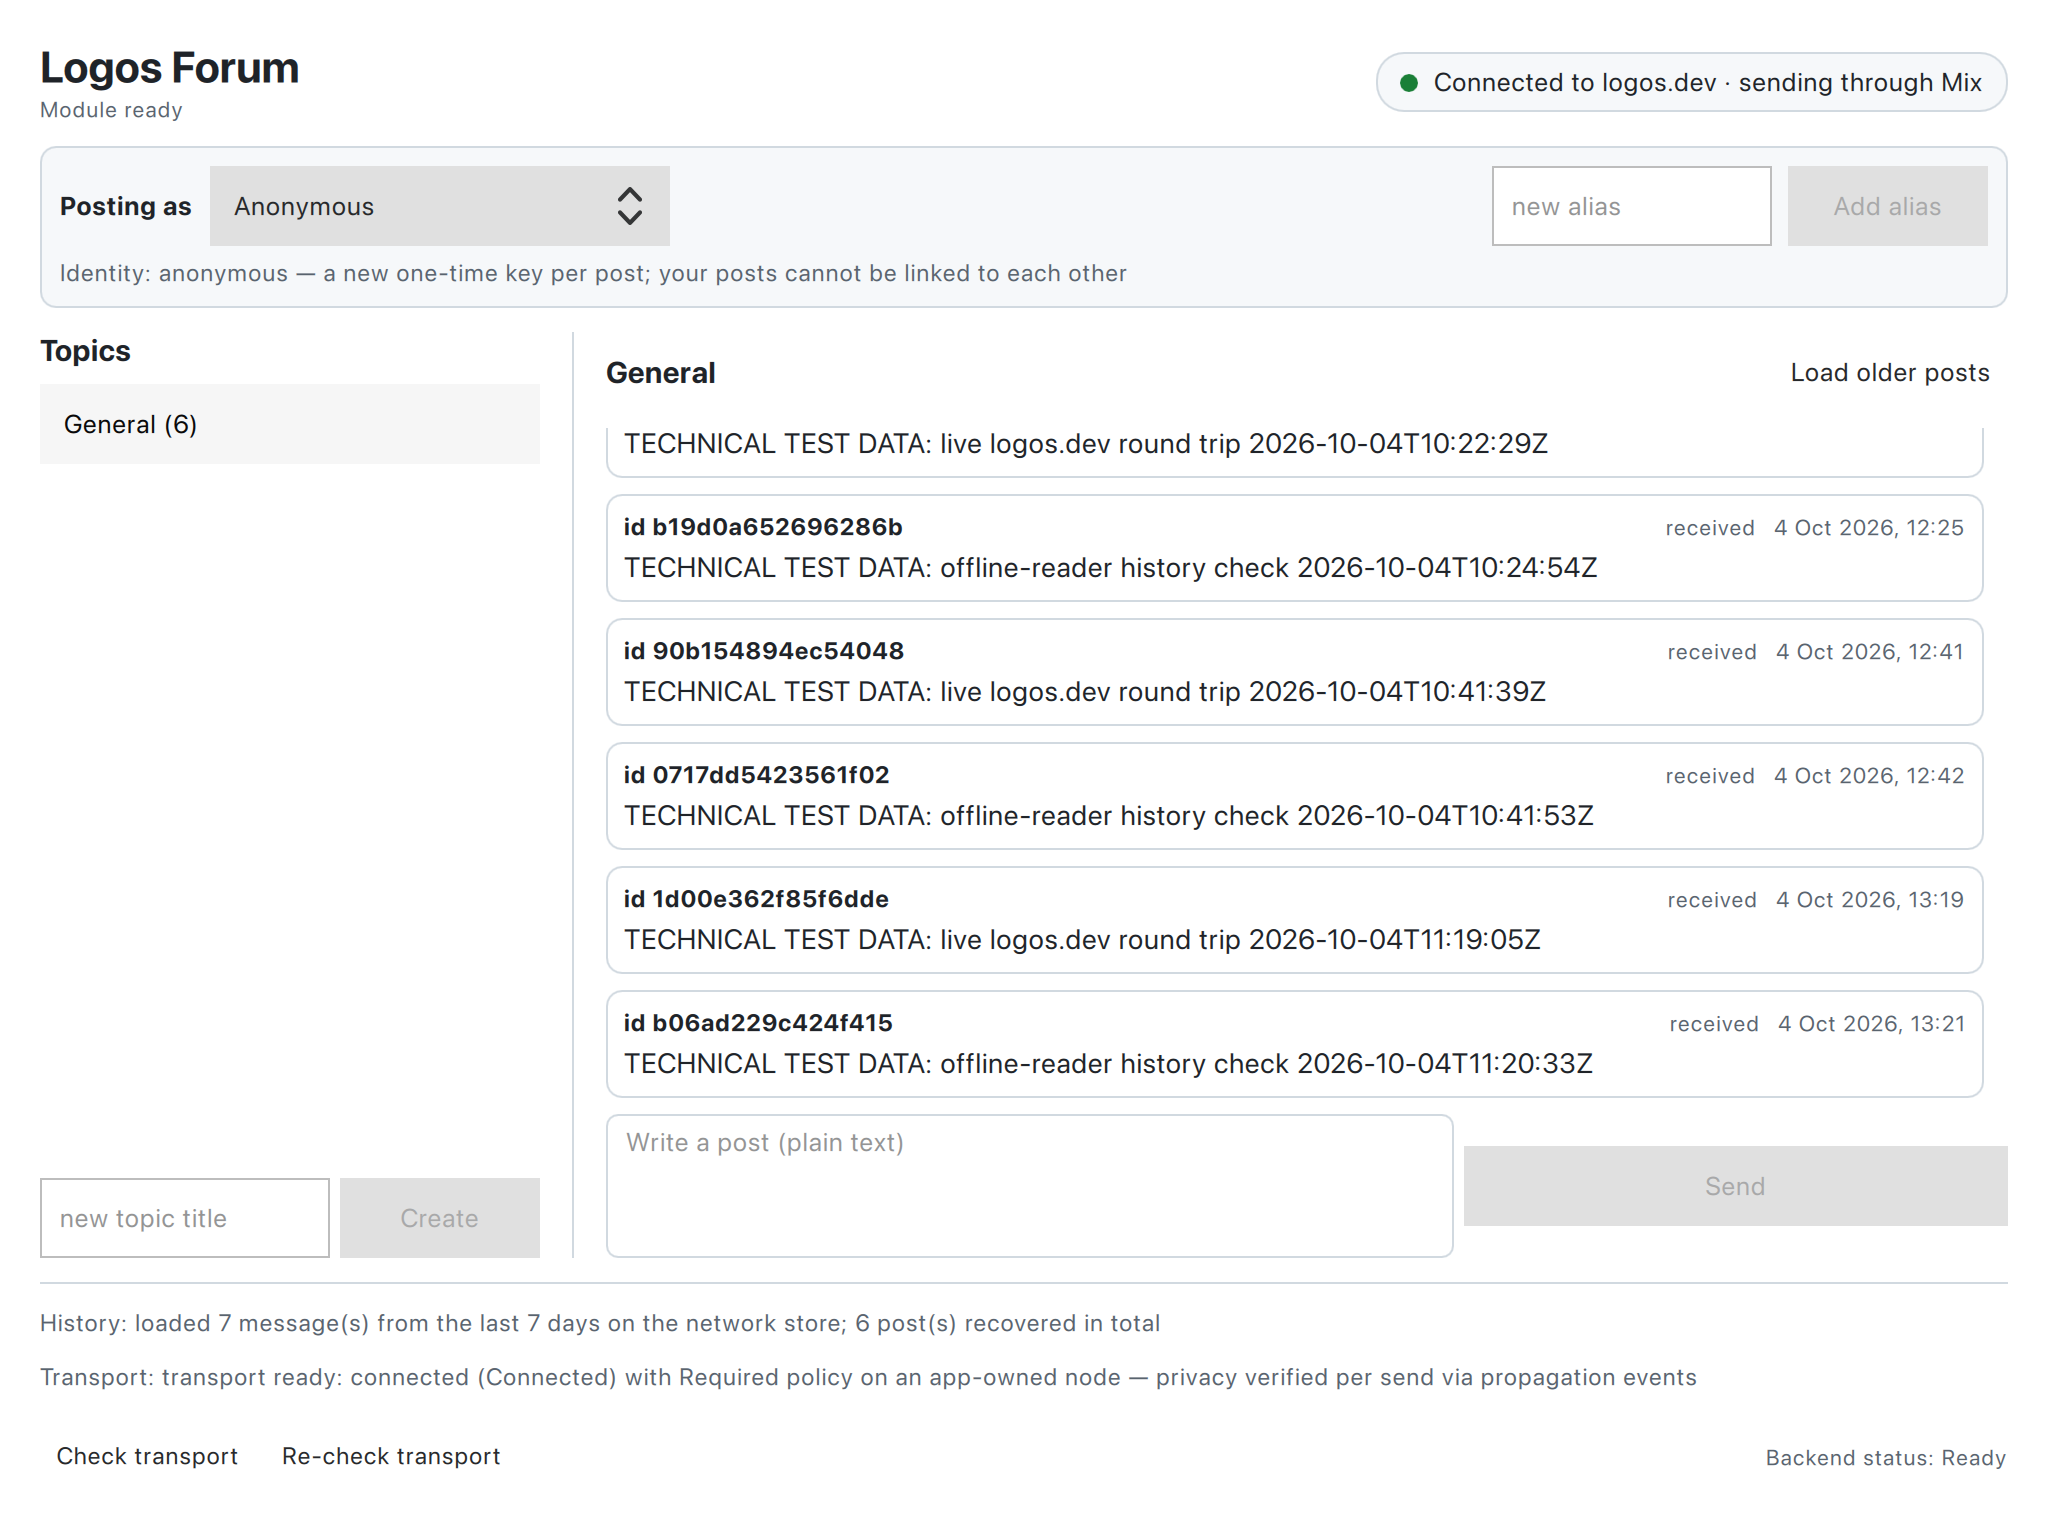
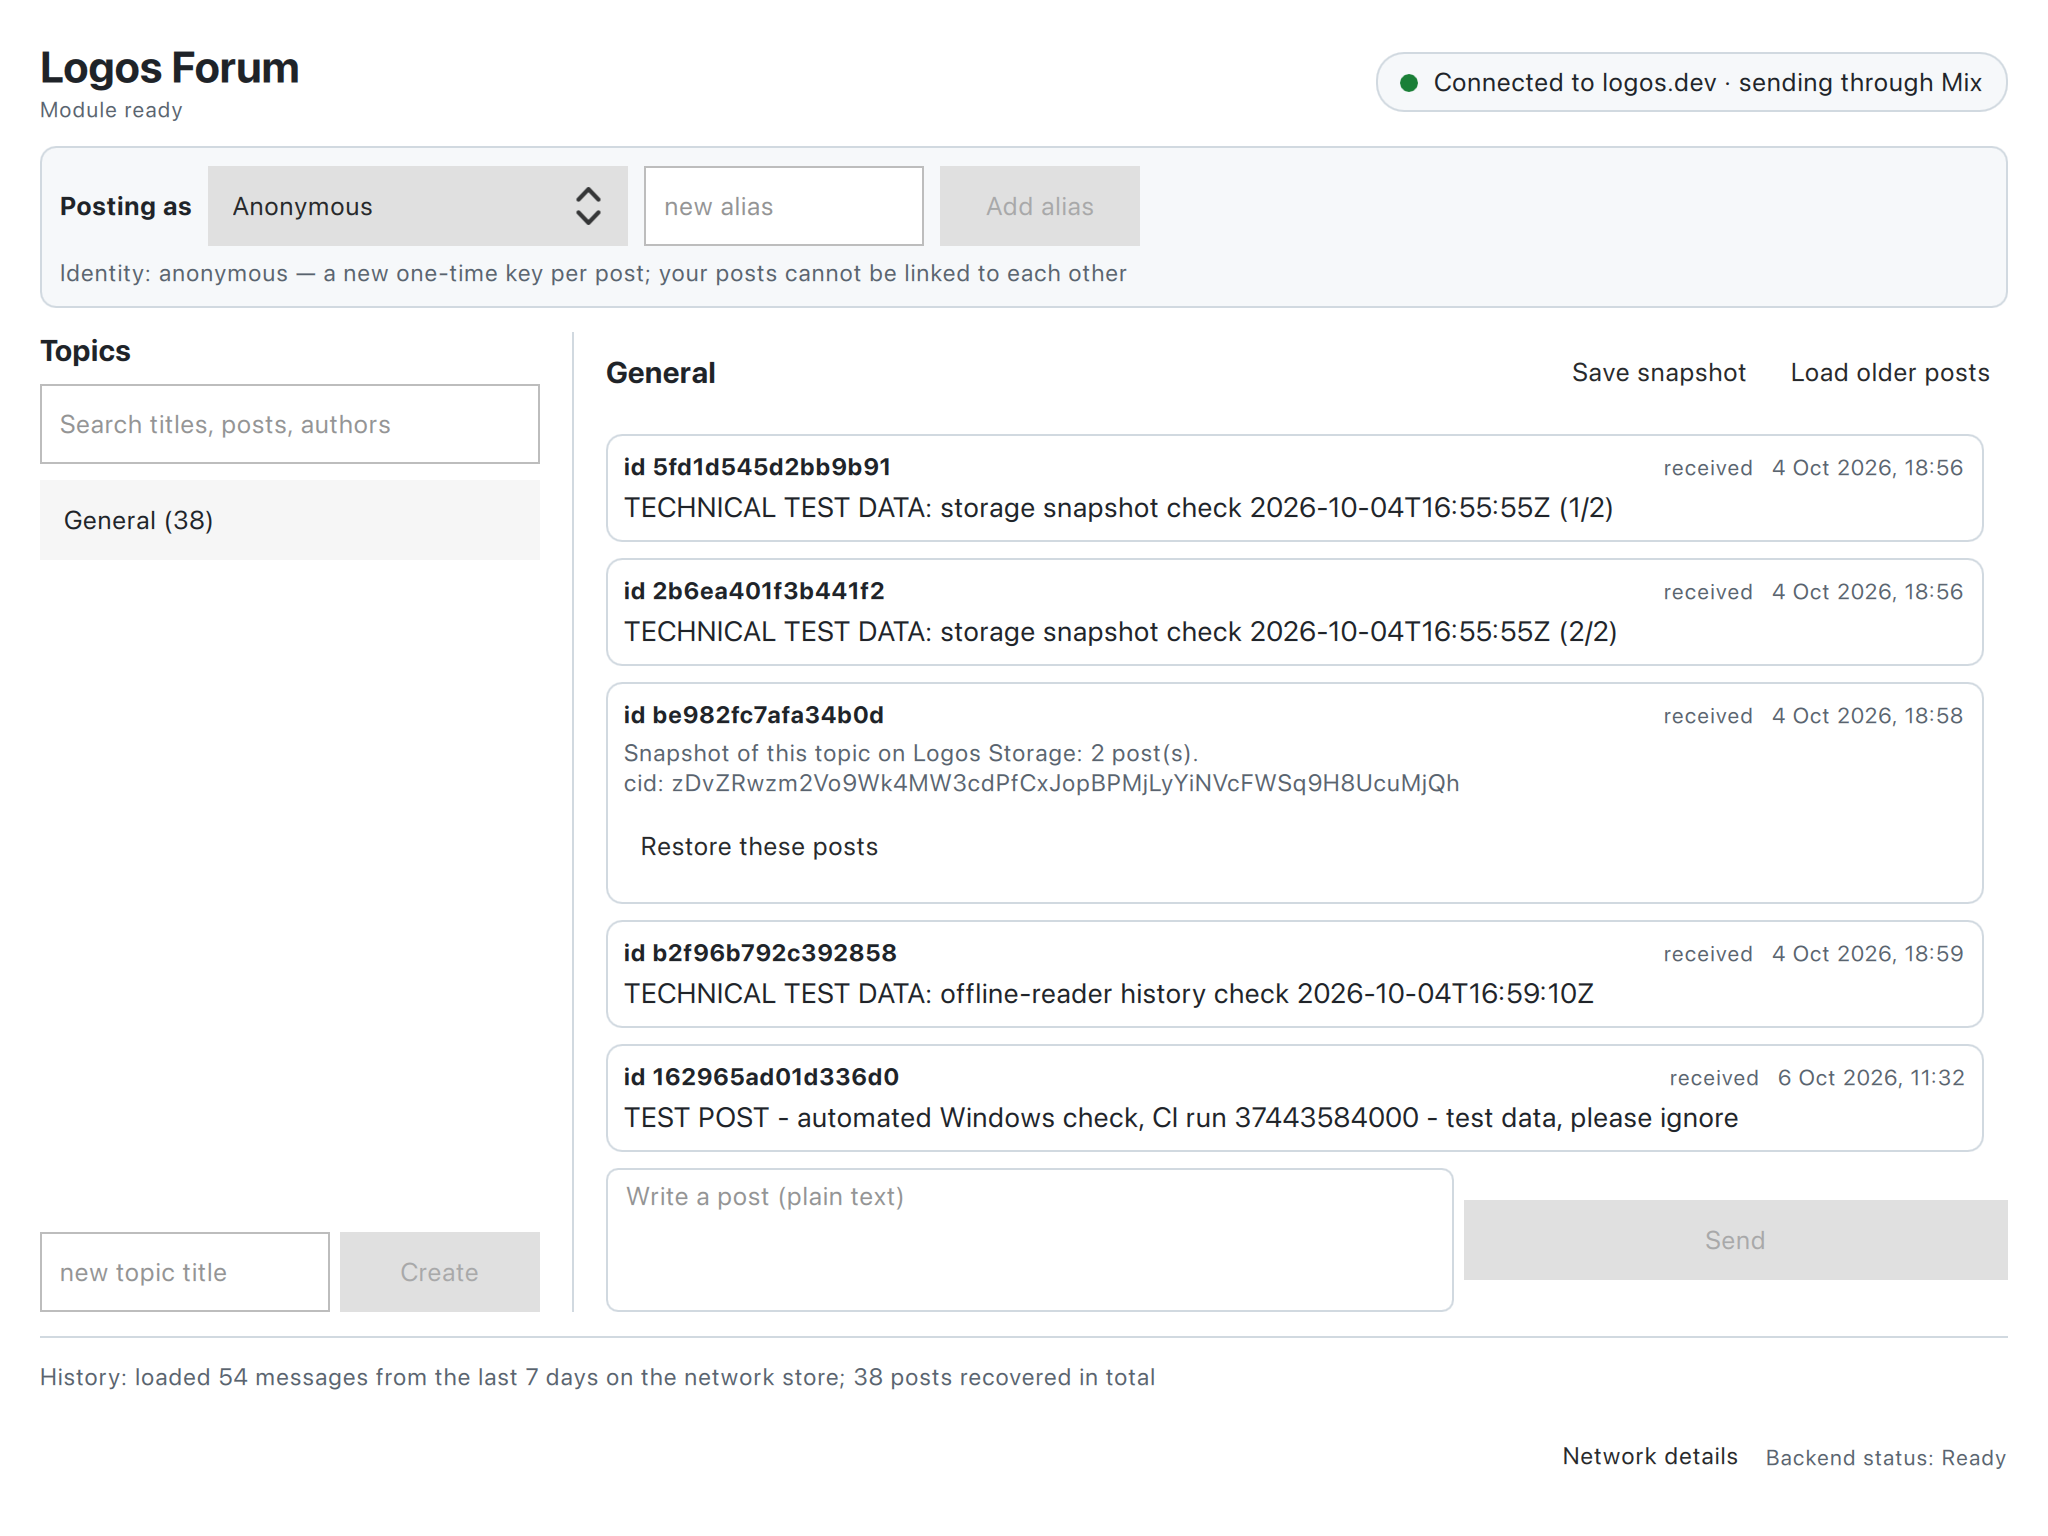
feat: offline posts wait for the connection; Windows check in Basecamp
A post written before connecting is now stored as waiting to send and the composer is cleared, so pressing Send again can no longer post it twice. The Connecting hint is replaced once connected and Retry stored appears only when connected. CI adds a windows-basecamp job that runs the Windows package in the release Basecamp 0.3.1 app on a Windows runner, writes a test post offline and checks it is sent through Mix after Connect. README images refreshed from the current UI.

diff --git a/src/qml/Main.qml b/src/qml/Main.qml
@@ -16,6 +16,11 @@ Item {
     readonly property string status: backend ? backend.status : ""
     readonly property string transportState: backend ? backend.transportState : ""
     readonly property string connection: backend ? backend.connection : "offline"
+    // The "Connecting…" hint from the Connect button must not outlive it.
+    onConnectionChanged: {
+        if (connection === "connected" && outcome.text.startsWith("Connecting"))
+            outcome.text = "Connected — posts go out through Mix."
+    }
     readonly property string historyState: backend ? backend.historyState : ""
     readonly property var accounts: backend ? backend.accounts : []
     readonly property string selectedAlias: backend ? backend.selectedAlias : ""
@@ -631,8 +636,9 @@ Item {
                                 text: "Retry stored"
                                 flat: true
                                 Layout.fillWidth: true
-                                // Offered when something in this thread is waiting.
-                                visible: root.threadPosts.some(function (l) {
+                                // Offered when connected and something in this thread is
+                                // waiting (offline, waiting posts go out on Connect).
+                                visible: root.connection === "connected" && root.threadPosts.some(function (l) {
                                     return l.indexOf(" [failed]: ") >= 0 || l.indexOf(" [pending]: ") >= 0
                                 })
                                 enabled: root.usable

diff --git a/tools/m4_matrix.py b/tools/m4_matrix.py
@@ -136,7 +136,7 @@ def main():
     current_smoke_passes = [d.name for d in smoke_pass if d.name >= "smoke-20261003-2"]
 
     core_logs = []
-    for name in ("m5-package/polish-20261004/core-tests.txt", "m5-package/linkfix/core-tests-age-1.log", "m5-package/linkfix/core-tests-parse-1.log", "m5-package/linkfix/core-tests-tsfix.txt", "m5-package/linkfix/core-tests-final.txt",
+    for name in ("m5-package/polish-20261006/core-tests.txt", "m5-package/polish-20261004/core-tests.txt", "m5-package/linkfix/core-tests-age-1.log", "m5-package/linkfix/core-tests-parse-1.log", "m5-package/linkfix/core-tests-tsfix.txt", "m5-package/linkfix/core-tests-final.txt",
                  "m2-core/core-tests-5.log", "m3-archive/core-tests-archive-3.log"):
         p = EVID / name
         if p.exists():
@@ -146,7 +146,7 @@ def main():
     # Newest store-backed suite receipt (identity-modes suite first, then the
     # first post-fix suite); "N passed, 0 failed" is parsed, never assumed.
     integ_final, integ_n = None, 0
-    for name in ("../polish-20261004/integration-win32fix-9.log", "../polish-20261004/integration-storeopen-7.log", "integration-final-tree-2.log", "integration-final-tree.log", "integration-age-1.log", "integration-features-3.log", "integration-tsfix.log", "integration-redesign.log", "integration-history.log", "integration-connect-2.log",
+    for name in ("../polish-20261006/integration-retry-visible-3.log", "../polish-20261004/integration-win32fix-9.log", "../polish-20261004/integration-storeopen-7.log", "integration-final-tree-2.log", "integration-final-tree.log", "integration-age-1.log", "integration-features-3.log", "integration-tsfix.log", "integration-redesign.log", "integration-history.log", "integration-connect-2.log",
                  "integration-uid.log", "integration-final.log"):
         cand = lf / name
         m = re.search(r"(\d+) passed, 0 failed", cand.read_text(errors="replace")) if cand.exists() else None
@@ -171,7 +171,7 @@ def main():
     gui_receipts = (
         ([{"artifact": "store_probe (dev launcher: slot return + PROP sync + post path)",
            "sha256": store_probe_h}] if store_probe else []) +
-        ([{"artifact": "cleaninstall (real Basecamp: alias + refused post [failed] + text kept)",
+        ([{"artifact": "cleaninstall (real Basecamp: alias + offline post saved as [pending], composer cleared)",
            "sha256": m5ci_h}] if m5ci else []))
 
     # Live public-network receipts (logos.dev, joined through the in-app

diff --git a/src/forum_module_backend.cpp b/src/forum_module_backend.cpp
@@ -483,13 +483,17 @@ QString ForumModuleBackend::submitPost(const QString &bounded, const forum::KeyP
         return QStringLiteral("queued");
     }
     if (!m_transportReady) {
-        st->mark_state(eventId, "failed", "transport not ready (Required policy)");
+        // Not connected: the signed post is stored and waits; it goes out
+        // through Mix only after the user connects (Required, no fallback).
+        // The composer is cleared — the text lives in the store now, and
+        // keeping it there too would invite a duplicate post.
+        st->mark_state(eventId, "pending", "offline: waiting until you connect");
         setTransportStateFromEvent(
-            QStringLiteral("posting unavailable: transport not ready (Required "
-                           "policy — no fallback); post stored for retry"));
+            QStringLiteral("offline — post stored; it is sent through Mix after you "
+                           "connect (Required policy, no fallback)"));
         refreshTopics();
         refreshThread();
-        return QStringLiteral("unavailable");
+        return QStringLiteral("queued");
     }
     if (!sendPaced(*ev)) {
         refreshThread();

diff --git a/README.md b/README.md
@@ -15,7 +15,7 @@ Works on the public **logos.dev** network (receipted live:
 posts are our own labelled test posts from the live receipts, recovered from
 the network's store by a fresh instance.*
 
-![Identity panel with key rotation (by posts and by age), topics and a post kept while offline](docs/img/forum-identity-rotation.png)
+![Identity panel with key rotation (by posts and by age), topics and a post written offline, waiting to send](docs/img/forum-identity-rotation.png)
 
 *An alias with automatic key rotation (every 10 posts or weekly; rotated once
 by hand). Offline, the post is kept on the device and marked for sending.*
@@ -85,7 +85,9 @@ nix build path:$PWD#harness-python  # python3 + cryptography for tools/*
 platform) or `windows-x86_64` (`packages.x86_64-windows.lgx-portable`, a
 mingw cross build that runs on x86_64 Linux — CI job `windows`). CI merges
 the macOS, Linux (amd64) and Windows packages into one multi-platform `.lgx`
-(job `all-platforms`) — the form a catalog serves. Nix dev hosts require the `-dev` variant (`#lgx`).
+(job `all-platforms`) — the form a catalog serves — and runs the Windows
+package in the release Basecamp app on a Windows runner (job
+`windows-basecamp`, `tools/windows_smoke.sh`, screenshots uploaded). Nix dev hosts require the `-dev` variant (`#lgx`).
 Install the one matching your host (the wrong one is *refused*, never
 half-loaded).
 
@@ -212,14 +214,17 @@ starts the release app on a profile, `stop` quits everything it started.
   nodes and needs no RLN membership; it is the bleeding-edge network and may
   be unavailable). Ports are chosen by the OS, so several instances can run
   on one machine. The node counts as *connected* only once Delivery reports
-  it (for Required that includes a usable Mix pool); until then new posts are
-  stored as *waiting to send* and go out automatically on connection. The
+  it (for Required that includes a usable Mix pool); until then — and before
+  you connect at all — new posts are stored as *waiting to send* and go out
+  automatically, through Mix only, once connected. The
   choice lasts for the session. Harnesses and private networks instead set
   `FORUM_TRANSPORT_CONFIG=<delivery config json>`, which takes precedence.
 - **Post states** come only from real module events: *waiting to send*,
   *sending…*, *sent* (Mix propagation reported), *not sent — kept for retry*
-  (with the module's error), *received*. Without a network the UI says so
-  and keeps your text; there is no plain fallback. A failed send is retried
+  (with the module's error), *received*. Without a network the UI says the
+  post is saved and will be sent through Mix once you connect; there is no
+  plain fallback. If the post cannot be stored, it is not sent and your text
+  stays in the box. A failed send is retried
   automatically up to 3 times (15/30/60 s), then stays for **Retry stored**.
 - **Reading history**: when the node connects, Delivery catches up from the
   network's store on its own — posts made while you were offline appear and
@@ -295,8 +300,11 @@ starts the release app on a profile, `stop` quits everything it started.
    clock), so a hostile author can misplace a post in the thread order.
 6. logosctl 0.3.1 storage init is single-instance per user (upstream
    finding #3 family) — storage legs run on the qualified 0.3.0 CLI.
-7. Windows: the `windows-x86_64` variant builds in CI; a run on a Windows
-   machine is not yet receipted (cross-building it under emulation on Apple
-   silicon fails in Qt's `repc` — `evidence/m5-package/linux-amd64-*/NOTE.txt`).
+7. Windows: CI runs the `windows-x86_64` package in Basecamp 0.3.1 on a
+   Windows runner — it loads, keeps a post written offline and sends it
+   through Mix after Connect (`evidence/m8-windows/`) — but receiving,
+   history and Storage snapshots have not been driven on Windows yet.
+   (Cross-building it under emulation on Apple silicon fails in Qt's `repc`
+   — `evidence/m5-package/linux-amd64-*/NOTE.txt`; CI builds it.)
 8. Organic use (R16) and catalog/video (R15) are external gates — prepared
    for, never fabricated.

diff --git a/docs/CONTRACT.md b/docs/CONTRACT.md
@@ -41,7 +41,7 @@ no transport API is reachable from QML. Slots return plain strings.
 | `rotateKey()`, `setAutoRotate(n)`, `setAutoRotateDays(d)` | SLOT | move the selected alias to a fresh key now / every `n` stored posts (0–1000) / once its key is `d` days old (0–365, checked before each post); `ok` / `error: …` |
 | `createTopic(title)`, `openTopic(id)` | SLOT | topic id / `ok` / `error: …` |
 | `setSearch(text)` | SLOT | filters topics (title, post text, author) and the open thread; local only |
-| `postMessage(text)` | SLOT | event id; `queued` while connecting (stored, sent automatically once connected); or `unavailable` (no network chosen) / `failed` / `empty` — text kept |
+| `postMessage(text)` | SLOT | event id; `queued` while offline or connecting (stored as pending, sent through Mix automatically once connected; the composer is cleared); or `unavailable` (local store error) / `failed` / `empty` — text kept |
 | `retryPending()` | SLOT | resends stored rows' ORIGINAL signed bytes; count. Also automatic: on every transition to `connected`, and up to 3 times per post (15/30/60 s) after a send error |
 | `connectNetwork()` | SLOT | user-initiated join of logos.dev with anonymity `Required`; never automatic |
 | `loadHistory()` | SLOT | asks a logos.dev store node for this forum's last 7 days (≤ 10 pages × 50); results verified, merged, reported in `historyState` |
